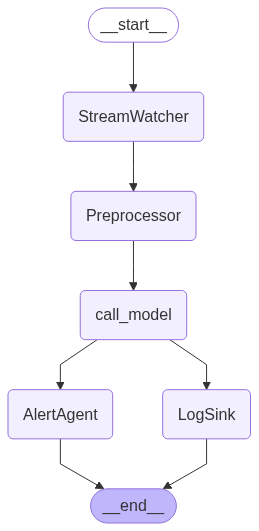
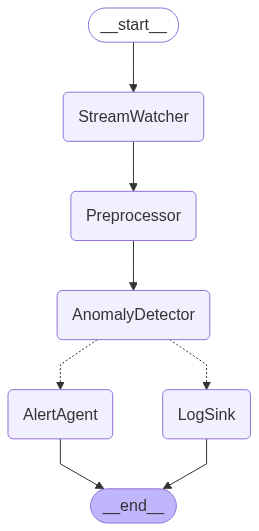
Remove extra lines

diff --git a/app/main.py b/app/main.py
@@ -1,112 +1,42 @@
-import asyncio
-import os
-
-from langchain_community.chat_models import ChatOllama
-from langchain_mcp_adapters.tools import load_mcp_tools
-from langgraph.constants import END
 from langgraph.graph import StateGraph
-from langgraph.prebuilt import ToolNode, tools_condition
-from IPython.display import Image, display
-
 from app.agents.stream_watcher import fetch_log_from_stream
 from agents.preprocessor import normalize_log
 from agents.detector import detect_anomaly
 from agents.alert import alert
 from agents.sink import sink_log
-# from langgraph.graph.runner import start_visual_server
-import threading
 import time
 from typing import TypedDict, Tuple
-from mcp import StdioServerParameters, stdio_client, ClientSession
 
-from app.models import State
+class State(TypedDict):
+    log: dict | None
+    AnomalyDetector: Tuple[bool, str]  # (is_anomaly, explanation)
 
-print("Current working directory:", os.getcwd())
 
-print("Starting MCP client...")
-server_params = StdioServerParameters(
-    command="python",
-    # args=["agents", "mcp_setup", "server.py"],
-    args=[os.path.join(os.getcwd(), "app", "mcp_setup", "server.py")],
-    env=None,
-)
+builder = StateGraph(State)
 
-async def create_llm(session):
-    llm = ChatOllama(model="llama3.1:latest")
+builder.add_node("StreamWatcher", fetch_log_from_stream)
+builder.add_node("Preprocessor", normalize_log)
+builder.add_node("AnomalyDetector", detect_anomaly)
+builder.add_node("AlertAgent", alert)
+builder.add_node("LogSink", sink_log)
 
-    tools = await load_mcp_tools(session)
-    llm_with_tool = llm.bind_tools(tools)
+builder.set_entry_point("StreamWatcher")
+builder.add_edge("StreamWatcher", "Preprocessor")
+builder.add_edge("Preprocessor", "AnomalyDetector")
 
-    return llm_with_tool, tools
+# Conditional routing based on anomaly detection
+def route(result):
+    is_anomaly, _ = result
+    return "AlertAgent" if is_anomaly else "LogSink"
 
-# Debugging state transitions
-def debug_state_transition(state):
-    print("Current state:", state)
-    return state
+builder.add_conditional_edges("AnomalyDetector", route, ["AlertAgent", "LogSink"])
 
-async def build_graph(session):
-    builder = StateGraph(State)
-
-    # Initialize the LLM
-    llm = ChatOllama(model="llama3.2:latest")
-
-    # Load tools
-    tools = await load_mcp_tools(session)
-    print("Available tools:", [tool.name for tool in tools])
-
-    # Manually integrate tools
-    async def call_llm_with_tool(state: State) -> Tuple[State, str]:
-        print("[ToolNode] Calling LLM with state:", state)
-        tool_output = await tools[0].ainvoke(state)  # Use asynchronous invocation
-        response = await llm.ainvoke([tool_output])  # Pass tool output to LLM asynchronously
-        print("[ToolNode] LLM response:", response)
-        return state, response.content
-
-    builder.add_node("StreamWatcher", fetch_log_from_stream)
-    builder.add_node("Preprocessor", normalize_log)
-    builder.add_node("call_model", call_llm_with_tool)
-    builder.add_node("AlertAgent", alert)
-    builder.add_node("LogSink", sink_log)
-
-    builder.set_entry_point("StreamWatcher")
-    builder.add_edge("StreamWatcher", "Preprocessor")
-    builder.add_edge("Preprocessor", "call_model")
-    builder.add_edge("call_model", "AlertAgent")
-    builder.add_edge("call_model", "LogSink")
-
-    graph = builder.compile()
-
-    with open("mermaid_graph.png", "wb") as f:
-        f.write(graph.get_graph().draw_mermaid_png())
-
-    return graph
-
-async def main():
-    config = {"configurable": {"thread_id": 1234}}
-    async with stdio_client(server_params) as (read, write):
-        async with ClientSession(read, write) as session:
-            await session.initialize()
-
-            graph = await build_graph(session)
-            print("Graph built successfully")
-
-            # Start the graph
-            while True:
-                response = await graph.ainvoke({}, config=config)
-                print("AI: "+response["messages"][-1].content)
-                time.sleep(0.1)
-
+graph = builder.compile()
+mermaid_code = graph.get_graph().draw_mermaid_png()
+with open("mermaid_graph.png", "wb") as f:
+    f.write(graph.get_graph().draw_mermaid_png())
 
 if __name__ == "__main__":
-    # Start visual server in separate thread
-    # threading.Thread(target=start_visual_server, args=(graph,), daemon=True).start()
-
-    # while True:
-    #     graph.invoke({})
-    #     time.sleep(0.1)
-
-    # loop = asyncio.get_event_loop()
-    # loop.run_until_complete(main())
-    # loop.close()
-
-    asyncio.run(main())
+    while True:
+        graph.invoke({})
+        time.sleep(0.1)

diff --git a/app/main_with_mcp.py b/app/main_with_mcp.py
@@ -1,14 +1,11 @@
 import json
 import os
-import time
-from typing import Any, TypedDict
+from typing import Any
+import asyncio
 
-from langchain.chains.retrieval_qa.base import RetrievalQA
-from langchain_core.callbacks import StdOutCallbackHandler
 from langchain_mcp_adapters.client import MultiServerMCPClient
 from langchain_ollama import ChatOllama
 from langchain_mcp_adapters.tools import load_mcp_tools
-from langgraph.graph import StateGraph
 from langgraph.prebuilt import create_react_agent
 from langgraph.prebuilt.chat_agent_executor import AgentState
 from mcp import stdio_client, StdioServerParameters, ClientSession
@@ -16,8 +13,6 @@ from mcp import stdio_client, StdioServerParameters, ClientSession
 from app.agents.detector import PROMPT_TEMPLATE, PROMPT
 from app.knowledge_base.json_to_kb import load_faiss_store
 from app.mcp_setup.anomaly_server import fetch_log_from_redis_stream
-
-# from app.models import State
 
 print("Starting MCP client...")
 server_params = StdioServerParameters(
@@ -37,8 +32,6 @@ client = MultiServerMCPClient(
             "command": "python",
             "args": [os.path.join(os.getcwd(), "app", "mcp_setup", "rag_server.py")],
             "transport": "stdio",
-            # "url": "http://localhost:8000/mcp",
-            # "transport": "streamable_http",
         }
     }
 )
@@ -73,11 +66,8 @@ async def multiserver_main():
 
 
 async def run_agent(agent, tools, config):
-        # Run the agent
-        print("Starting agent...")
         log = fetch_log_from_redis_stream()
-        log = log["log"]  # Extract the log from the dictionary
-        # Preprocess log to match the required format
+        log = log["log"]
         if log is not None:
             input_message = {
                 "messages": [
@@ -200,8 +190,6 @@ async def main():
                     print("[AlertAgent] ALERT TRIGGERED:", alert)
 
 if __name__ == "__main__":
-    import asyncio
-
     async def loop_main():
         agent, tools = await multiserver_main()
         while True:
@@ -213,11 +201,3 @@ if __name__ == "__main__":
             await asyncio.sleep(1)
 
     asyncio.run(loop_main())
-
-
-# if __name__ == "__main__":
-#     import asyncio
-#     while True:
-#         asyncio.run(multiserver_main())
-#         time.sleep(0.1)
-#         # print("MCP client started successfully.")

diff --git a/app/agents/detector.py b/app/agents/detector.py
@@ -3,7 +3,7 @@ import json
 from langchain_core.messages import HumanMessage
 from langchain_community.chat_models import ChatOllama
 
-# llm = ChatOllama(model="llama3.1:latest")
+llm = ChatOllama(model="llama3.2:latest")
 
 PROMPT_TEMPLATE = """
 You are an expert log analyzer. Given a log line, determine if it represents an anomaly and call search_solution to find solutions from knowledge base.
@@ -75,16 +75,14 @@ def detect_anomaly(state):
 
     print("[AnomalyDetector] Sending to LLaMA:", log_line)
 
-    return prompt
+    response = llm.invoke([HumanMessage(content=prompt)])
 
-    # response = llm.invoke([HumanMessage(content=prompt)])
-    #
-    # try:
-    #     content = response.content.strip()
-    #     content = content.replace("true", "true").replace("false", "false")
-    #     result = json.loads(content)  # okay only for trusted, local LLM
-    #     return {"AnomalyDetector": (result.get("anomaly", False), result.get("explanation", "No explanation"))}
-    # except Exception as e:
-    #     print("[AnomalyDetector] Failed to parse response:", response.content)
-    #     return {"AnomalyDetector": (False, f"Error parsing model response: {str(e)}")}
+    try:
+        content = response.content.strip()
+        content = content.replace("true", "true").replace("false", "false")
+        result = json.loads(content)
+        return {"AnomalyDetector": (result.get("anomaly", False), result.get("explanation", "No explanation"))}
+    except Exception as e:
+        print("[AnomalyDetector] Failed to parse response:", response.content)
+        return {"AnomalyDetector": (False, f"Error parsing model response: {str(e)}")}
 

diff --git a/app/mcp_setup/rag_server.py b/app/mcp_setup/rag_server.py
@@ -1,12 +1,7 @@
-import os.path
-
 from mcp.server import FastMCP
 
-from app.knowledge_base.json_to_kb import load_faiss_store
 from app.main_with_mcp import vectorstore
 
-# Load FAISS vector store
-# vectorstore = load_faiss_store()
 mcp = FastMCP("Retrieval Augmented Generation (RAG) Server")
 
 @mcp.tool()
@@ -26,24 +21,13 @@ async def search_solution(log_msg: str):
         return matches[0].metadata.get("solution", "No solution found in metadata.")
     return "No solution found in KB."
 
-# @mcp.tool()
 def provide_solution(log, qa):
     query = f"What solution can you suggest for this log issue: {log}"
     answer = qa.invoke(query)
     print("[RAGSolution] KB response:", answer)
     return {"solution": answer}
 
-# Example
 if __name__ == "__main__":
     # Example usage of the query_solution tool
     print("Starting RAG server in streamable-http...")
     mcp.run(transport="stdio")
-# print(query_solution("Disk usage exceeded threshold"))
-#
-# from langchain.chains import RetrievalQA
-# from langchain_community.vectorstores import FAISS
-# from langchain_community.embeddings import OllamaEmbeddings
-#
-# retriever = FAISS.load_local("kb-index", embeddings=OllamaEmbeddings(model="nomic-embed-text"), allow_dangerous_deserialization=True).as_retriever()
-# qa = RetrievalQA.from_chain_type(llm=llm, retriever=retriever)
-#

diff --git a/app/mcp_setup/anomaly_server.py b/app/mcp_setup/anomaly_server.py
@@ -5,17 +5,11 @@ import os
 from langchain_core.messages import BaseMessage
 from mcp.server.fastmcp import FastMCP
 
-from app.agents.detector import detect_anomaly
-
 mcp = FastMCP("Log Anomaly Detection")
 
 redis_host = os.environ.get("REDIS_HOST", "localhost")
 r = redis.Redis(host=redis_host, port=6379, decode_responses=True)
 
-# Fetch a single log entry from the Redis stream
-# Returns the raw log dictionary or None if empty
-
-# @mcp.tool()
 def fetch_log_from_redis_stream():
     """
     Fetches a single log entry from the Redis stream.

diff --git a/app/agents/stream_watcher.py b/app/agents/stream_watcher.py
@@ -4,9 +4,6 @@ import os
 redis_host = os.environ.get("REDIS_HOST", "localhost")
 r = redis.Redis(host=redis_host, port=6379, decode_responses=True)
 
-# Fetch a single log entry from the Redis stream
-# Returns the raw log dictionary or None if empty
-
 def fetch_log_from_stream(state):
     print("[StreamWatcher] Fetching log from Redis stream...")
     log = state.get("log")

diff --git a/app/agents/sink.py b/app/agents/sink.py
@@ -1,5 +1,4 @@
 def sink_log(state):
     log = state.get("log")
-    print("[LogSink] ✅ Log archived:", log)
-    # Optional: store into database, file, or another Redis stream
+    print("[LogSink] Log archived:", log)
     return {}

diff --git a/app/agents/preprocessor.py b/app/agents/preprocessor.py
@@ -1,6 +1,5 @@
 from app.models import State
 
-
 def normalize_log(state: State):
     print("[Preprocessor] Normalizing log entry...")
     log = state.get("log")
